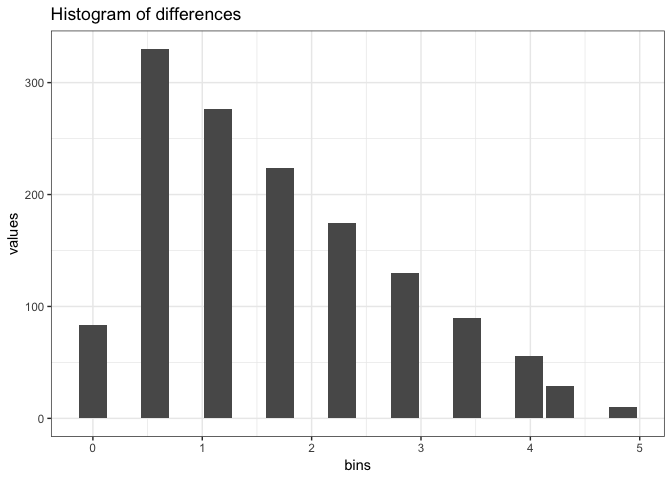
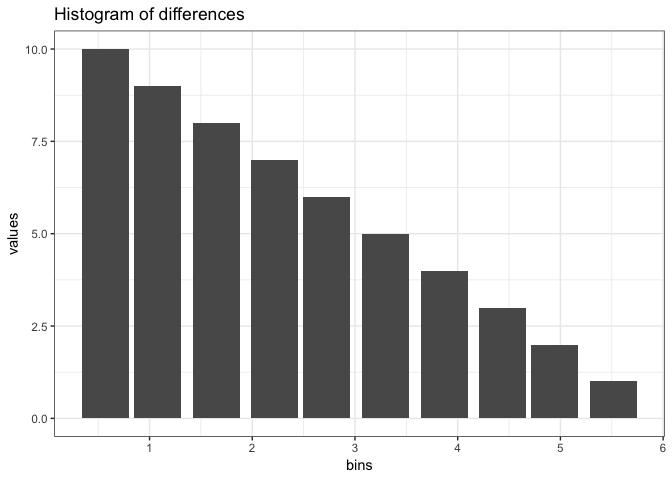
Loop over num ranges added

diff --git a/src/tools.cpp b/src/tools.cpp
@@ -221,7 +221,6 @@ List ft(arma::vec x, String filter) {
   double minDiff = 1.0;
   // Calculate delnu
   double delnu = (maxFreq - fNyquist) / unknow;
-
   arma::vec f = 1.0 / arma::regspace(minDiff, delnu, maxFreq);
   // Outer product
   arma::mat outerProduct = f * x.t();
@@ -233,9 +232,8 @@ List ft(arma::vec x, String filter) {
   arma::mat powerSpectrum = (arma::pow(_real, 2) + arma::pow(_imag, 2)) /
     std::pow(n, 2);
   // Return results
-  return List::create(_["real"] = _real,
-                      _["imag"] = _imag,
-                      _["delnu"] = delnu, 
+  return List::create(_["amp"] = amp,
+                      _["frequences"] = x,
                       _["f"] = f, 
                       _["powerSpectrum"] = powerSpectrum,
                       _["powerSpectrumInverse"] = 1 / powerSpectrum);
@@ -291,7 +289,7 @@ List go(arma::vec frequency, arma::vec amplitude, String filter,
   // Check the frequencies vector of splitted elements
   arma::vec range(3);
   if (frequency.n_elem < numFrequencies){
-    range[0] = 1;
+    range[0] = frequency.n_elem;
     range.shed_rows(1, 2);
   } else if (frequency.n_elem > numFrequencies & 
              frequency.n_elem <= 2*numFrequencies) {
@@ -309,39 +307,51 @@ List go(arma::vec frequency, arma::vec amplitude, String filter,
     range[3] = frequency.n_elem;
   }
   
-  // Calculate FT
-  List res = ft(frequency, filter);
-  // Calculate the inverse frecuence
-  arma::vec f = res["f"];
-  arma::vec fInv = 1.0 / f;
-  arma::vec b = res["powerSpectrum"];
-  
-  // Get the peaks
-  arma::uvec peaksInd = findPeaks(b);
-  arma::vec localMax = fInv.elem(peaksInd);
-  arma::vec localMaxB = b.elem(peaksInd);
-  // Get 
-  Rcout << "max:" << max(localMaxB);
-  
-  
-  arma::vec dnuPeak = fInv.elem(b == max(localMaxB));
-  
-  // Differences
-  arma::vec diff = differences(frequency);
-  
-  // Histogram
-  List _diffHistogram = diffHistogram(diff, 19);
-  
-  return List::create(_["photometry"] = 
-                        List::create(_["frequency"]=frequency, 
-                                     _["amplitude"]=amplitude),
-                      _["ft"]=res,
-                      _["diff"] = List::create(_["diffHistogram"]=_diffHistogram, 
-                                           _["diff"]=diff),
-                      _["localMax"] = localMax,
-                      _["localMaxB"] = localMaxB,
-                      _["f"] = f,
-                      _["fInv"] = fInv,
-                      _["dnuPeak"] = dnuPeak
-                        );
+  // Loop over frequencies vector
+  arma::vec::iterator numIt;
+  for (numIt = range.begin(); numIt < range.end(); numIt++) {
+    
+    // Calculate the range for subselecting frecuences
+    arma::uvec pos(*numIt);
+    std::iota(pos.begin(), pos.end(), 0);
+    // Loop subselection of frecuences and amplitudes
+    arma::vec frequencyGlobal = frequency.elem(pos);
+    arma::vec  amplitudeGlobal = amplitude.elem(pos);
+
+    // Calculate FT
+    List res = ft(frequencyGlobal, filter);
+    // Calculate the inverse frecuence
+    arma::vec f = res["f"];
+    arma::vec fInv = 1.0 / f;
+    arma::vec b = res["powerSpectrum"];
+    
+    // Get the peaks
+    arma::uvec peaksInd = findPeaks(b);
+    arma::vec localMax = fInv.elem(peaksInd);
+    arma::vec localMaxB = b.elem(peaksInd);
+    
+    // Get DNU on the peak
+    arma::vec maxSel = fInv.elem(find(b == *std::max_element(localMaxB.begin(), localMaxB.end())));
+    double dnuPeak = maxSel(0); // Get the dnu on the peak
+    
+    // Todo::using the F0/Dnu estimation
+    double dnu = dnuPeak;
+    double dnuGuess = 0;
+    // -----------------------------------
+    
+    // Histogram
+    List _diffHistogram = diffHistogram(frequencyGlobal , dnu);
+    
+    return List::create(_["photometry"] = 
+                        List::create(_["frequency"]=frequencyGlobal, 
+                                     _["amplitude"]=amplitudeGlobal),
+                                     _["ft"]=res,
+                                     _["diff"] = List::create(_["diffHistogram"]=_diffHistogram),
+                                                          _["localMax"] = localMax,
+                                                          _["localMaxB"] = localMaxB,
+                                                          _["f"] = f,
+                                                          _["fInv"] = fInv,
+                                                          _["dnuPeak"] = dnuPeak
+    );
+  } // End range loop
 }

diff --git a/docs/SyntheticData.md b/docs/SyntheticData.md
@@ -49,20 +49,35 @@ write.table(dt.spectrum[c("frequency", "amplitude")], file = "/tmp/data.csv",
 Main procedure call
 
 ``` r
-out <- go(dt.spectrum$frequency,
-          dt.spectrum$amplitude,
-          filter = "uniform",
-          gRegimen = 0,
-          numFrequencies = 0)
+out <- go(
+  dt.spectrum$frequency,
+  dt.spectrum$amplitude,
+  filter = "uniform",
+  gRegimen = 0,
+  numFrequencies = 30
+)
 ```
-
-    ## max:0.0499131
 
 #### Fourier Transform on the photometry data
 
 ``` r
 # Plot frecuency and amplitude
-ggplot(aes(x = frequency, y = amplitude), data = data.frame(out$photometry)) +
+ggplot(aes(x = frequences, y = amplitude), 
+       data = data.frame("frequences"=out$ft$frequences, "amplitude"=out$ft$amp)) +
+  geom_point() +
+  geom_line() +
+  ggtitle("Apodization- Frequences and amplitudes") +
+  theme_bw()
+```
+
+![](SyntheticData_files/figure-markdown_github/apodization-1.png)
+
+#### Fourier Transform on the photometry data
+
+``` r
+# Plot frecuency and amplitude
+ggplot(aes(x = frequency, y = amplitude),
+       data = data.frame(out$photometry)) +
   geom_point() +
   geom_line() +
   ggtitle("FT on the photometry data") +
